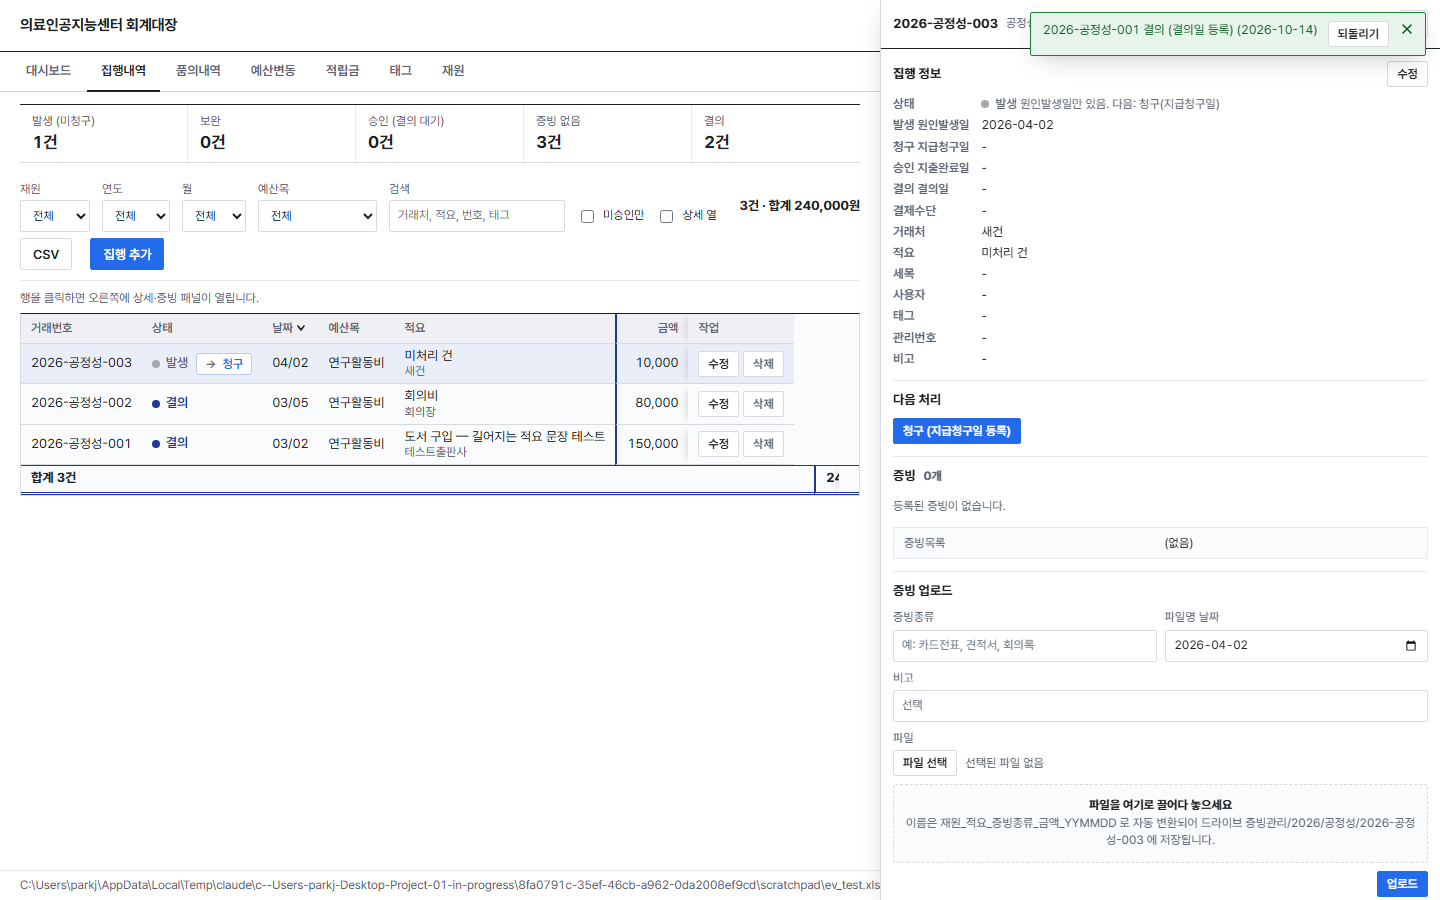
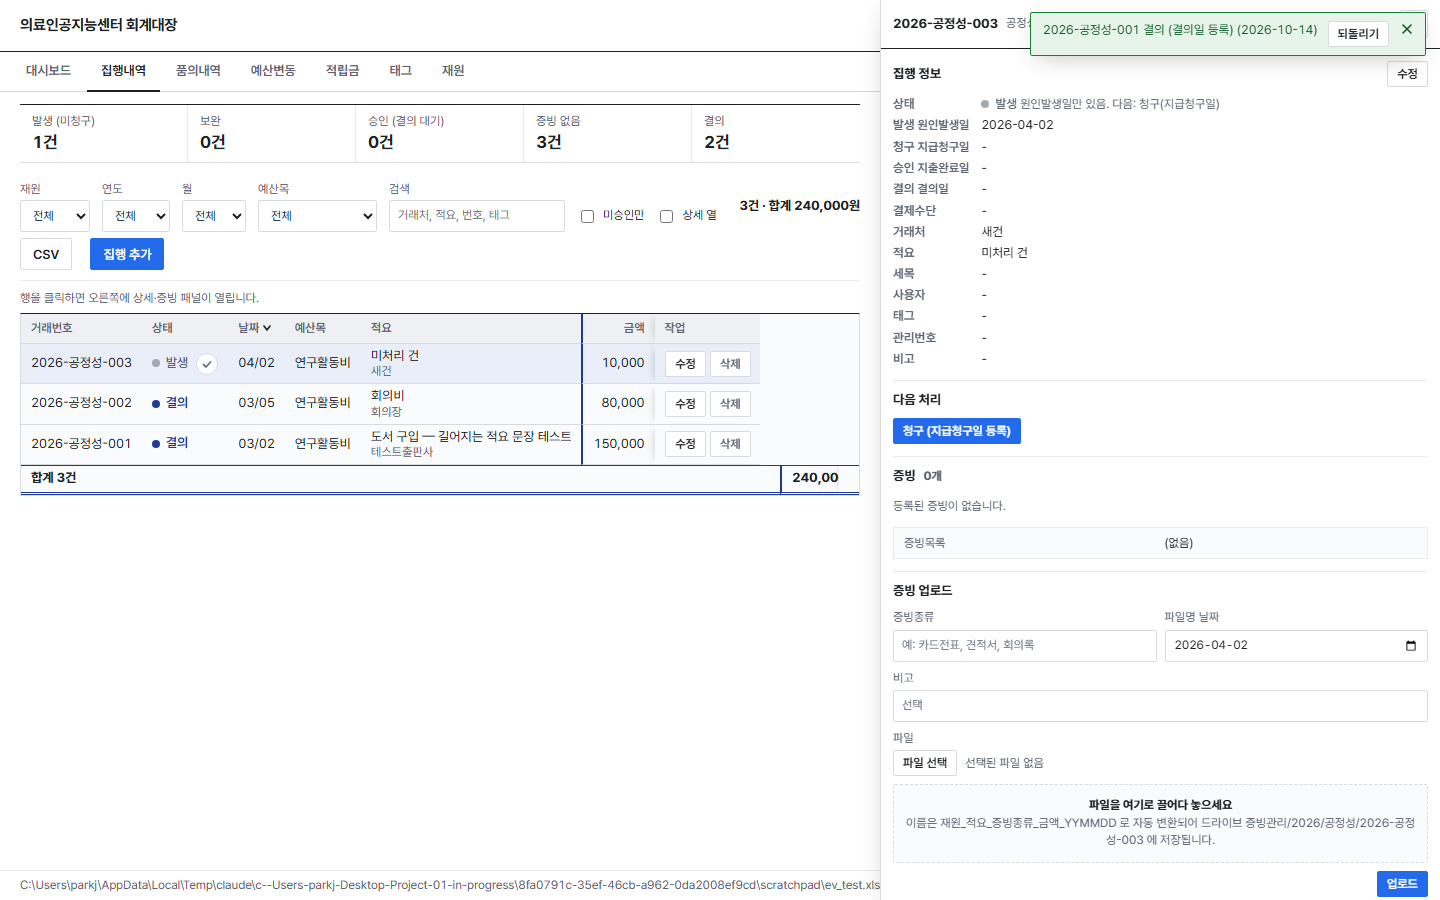
집행내역 상태 칸의 다음 단계 버튼을 체크 아이콘으로

Changed region(s): [[0.1562, 0.3422, 0.5625, 0.5289], [0.5625, 0.5289, 0.5938, 0.56]]

diff --git a/app/static/app.js b/app/static/app.js
@@ -278,7 +278,7 @@ function renderList(kind) {
       }
       if (c.t === "badge") {
         const nx = kind === "exec" ? NEXT_STEP[v] : null;
-        return `<td class="st-cell"><span class="badge ${esc(v)}" title="${esc(STATUS_HELP[v] || "")}">${esc(STATUS_LABEL[v] || v)}</span>${nx ? `<button type="button" class="btn btn-inline next" data-act="xact" data-action="${nx[0]}" data-row="${r._row}" title="다음 단계: ${esc(nx[2])}">${esc(nx[1])}</button>` : ""}</td>`;
+        return `<td class="st-cell"><span class="badge ${esc(v)}" title="${esc(STATUS_HELP[v] || "")}">${esc(STATUS_LABEL[v] || v)}</span>${nx ? `<button type="button" class="next" data-act="xact" data-action="${nx[0]}" data-row="${r._row}" title="다음 단계로: ${esc(nx[1])} (${esc(nx[2])})" aria-label="다음 단계로: ${esc(nx[1])}"><svg viewBox="0 0 12 12" aria-hidden="true" focusable="false"><path d="M2.5 6.5l2.5 2.5 4.5-5" fill="none" stroke="currentColor" stroke-width="1.8" stroke-linecap="round" stroke-linejoin="round"/></svg></button>` : ""}</td>`;
       }
       if (c.t === "title") return `<td class="tit" title="${esc([v, r[c.sub]].filter(Boolean).join(" · "))}"><div class="t">${esc(v || "")}</div>${r[c.sub] ? `<div class="s">${esc(r[c.sub])}</div>` : ""}</td>`;
       if (kind === "exec" && c.k === "거래번호") return `<td class="nowrap">${esc(v)}${originBadge(r)}</td>`;

diff --git a/app/static/style.css b/app/static/style.css
@@ -413,8 +413,8 @@ table.grid td.tit:hover .t, table.grid td.tit:hover .s { white-space: normal; }
 .badge.결의::before { background: var(--margin); } .badge.결의 { color: var(--margin); }
 body.drawer-open #exec-table [data-col="결의일"], body.drawer-open #exec-table [data-col="결제수단"] { display: none; }
 
-/* 상태 열: 배지 + 다음 단계 버튼 */
+/* 상태 열: 배지 + 다음 단계 체크 버튼 */
 table.grid td.st-cell { white-space: nowrap; }
-table.grid td.st-cell .btn.next { margin-left: 8px; padding: 0 8px; min-height: 22px; font-size: 12px; color: var(--primary); border-color: #B9CDF5; }
-table.grid td.st-cell .btn.next::before { content: "→ "; color: var(--ink-3); }
-table.grid td.st-cell .btn.next:hover { background: var(--primary-bg); border-color: var(--primary); }
+table.grid td.st-cell .next { display: inline-flex; align-items: center; justify-content: center; width: 22px; height: 22px; margin-left: 8px; padding: 0; border: 1px solid var(--rule); border-radius: 50%; background: #fff; color: var(--ink-3); cursor: pointer; vertical-align: middle; }
+table.grid td.st-cell .next svg { width: 12px; height: 12px; }
+table.grid td.st-cell .next:hover, table.grid td.st-cell .next:focus-visible { color: #fff; background: var(--primary); border-color: var(--primary); outline: none; }

diff --git a/app/README.md b/app/README.md
@@ -46,7 +46,7 @@
 
 ### 집행내역 탭
 
-- **상태** 열: 발생(원인발생일) → 청구(지급청구일) → 보완(직접 표시) → 승인(지출완료일) → 결의(결의일, 마지막). 날짜가 우선이며 '보완'만 수동입니다. 표에는 원인발생일만 '날짜'로 보이고 나머지 날짜는 행을 클릭한 상세 패널에서 봅니다. 상태 칸의 [→ 청구] [→ 승인] [→ 결의] 버튼이 오늘 날짜로 다음 단계를 등록하고, 되돌리기와 보완 표시는 상세 패널의 '다음 처리'에서 합니다. 결의를 바로 등록하면 비어 있는 청구일·완료일도 같은 날짜로 채워집니다.
+- **상태** 열: 발생(원인발생일) → 청구(지급청구일) → 보완(직접 표시) → 승인(지출완료일) → 결의(결의일, 마지막). 날짜가 우선이며 '보완'만 수동입니다. 표에는 원인발생일만 '날짜'로 보이고 나머지 날짜는 행을 클릭한 상세 패널에서 봅니다. 상태 칸 옆의 체크(✓) 버튼이 오늘 날짜로 다음 단계(청구→승인→결의)를 등록하고, 되돌리기와 보완 표시는 상세 패널의 '다음 처리'에서 합니다. 결의를 바로 등록하면 비어 있는 청구일·완료일도 같은 날짜로 채워집니다.
 - 표의 버튼: 지급청구일 칸 **[청구일=오늘]**, 지출완료일 칸 **[보완]/[보완해제]**, **[완료일=오늘]**. 완료된 건에는 청구 버튼이 보이지 않습니다. 완료를 취소하려면 행을 클릭해 상세 패널의 **[완료 취소]**.
 - 상단 타일(발생·보완·승인·증빙 없음·결의)을 누르면 해당 건만 필터됩니다.
 - 적요 칸 아래에 거래처가 작은 글자로 붙고(ref 집행현황 구조), 결제수단 열은 품의와 같은 목록(연구비카드·계좌이체·연구자선지출·공금통장·적립금·기타)을 씁니다. 품의→집행 전환 시 결제수단이 넘어오고, 인건비 확정 집행은 계좌이체, 청구일·완료일·결의일=지급일로 기록됩니다.
